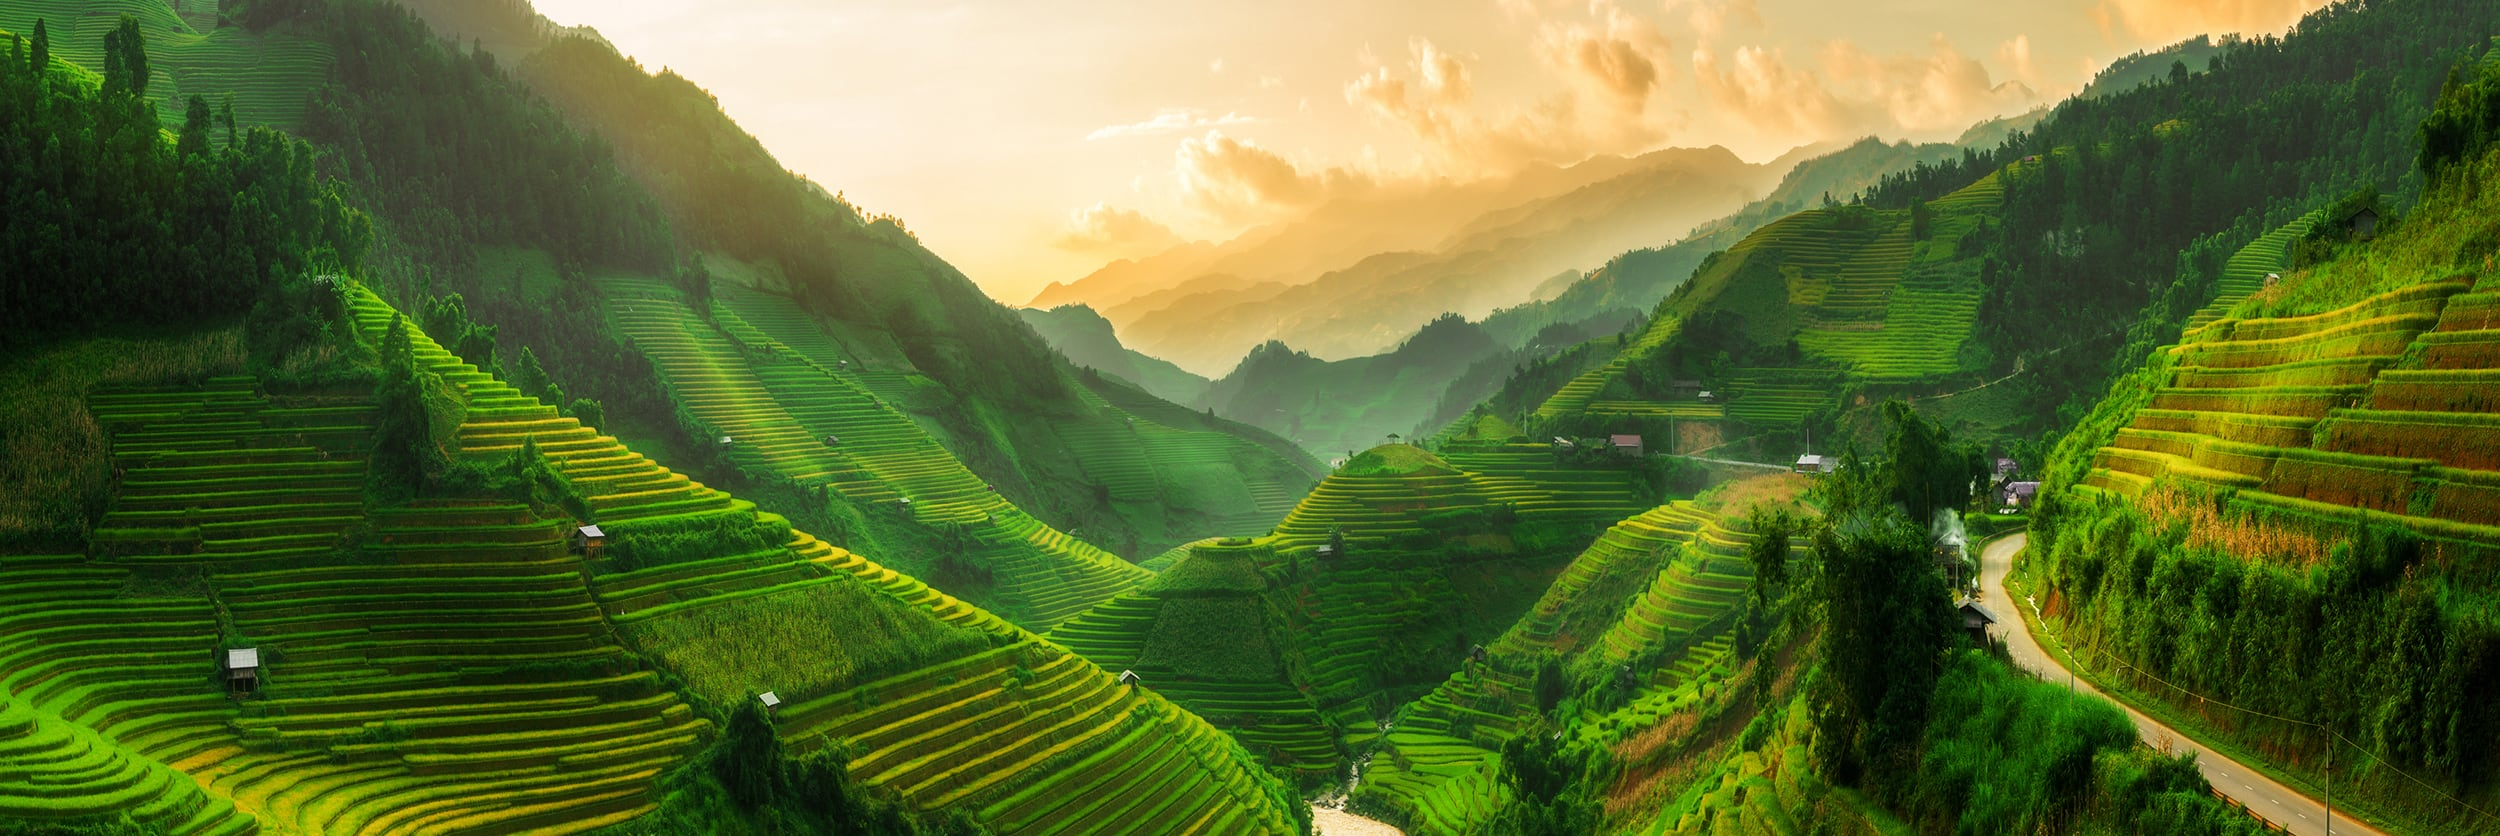
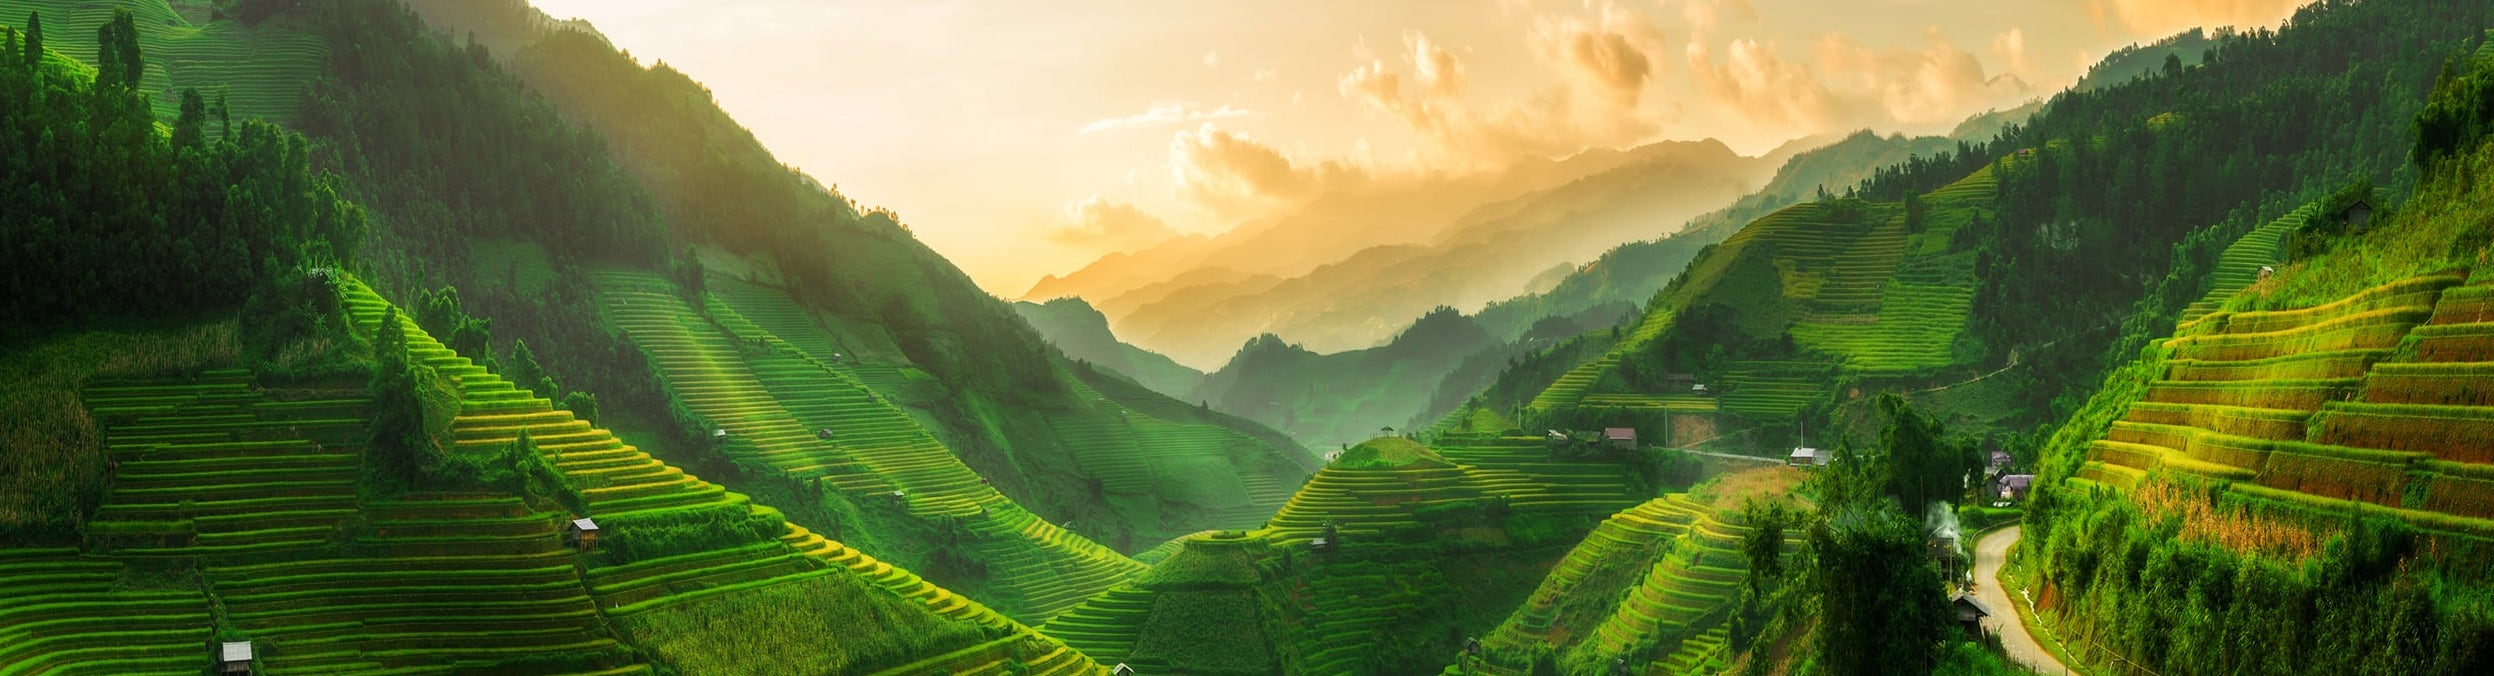
added hero image and flexbox to homepage

diff --git a/client/components/all-rice.js b/client/components/all-rice.js
@@ -11,24 +11,35 @@ class AllRice extends Component {
     render () {
         const { rice } = this.props
         return (
-            <div id='allrice'>
+            <div>
                 <main>
-                <h1>All Rice</h1>
-                    {rice.map(singleRice=> (
-                        <div className='campus' key={singleRice.id}>
-                            <Link to={`/allproducts/${singleRice.id}`}>
-                            <h2>{singleRice.name}</h2>
-                            <img className='riceIMG' src={singleRice.img} />
-                            </Link>
-                                <div>
-                                    <h3>Price: {singleRice.price}</h3>
-                                    <h3>Type: {singleRice.type}</h3>
-                                    <h4>Description: {singleRice.description}</h4>
-                                </div>
-                        </div>
-                    ))}
+                    <section id='about'>
                     <div>
+                        <div id='homepage-text'>
+                            <h1>Welcome to ShopRice</h1>
+                            <p>
+                            Providing the highest quality of rice since 1902
+                            </p>
+                        </div>
+                        <div id='aboutbackground'>
+                            <img className='homepage' src='/pictures/hero.jpg' alt='Homepage background' />
+                        </div>
                     </div>
+                    </section>
+
+                    <section id='product'>
+                    <h1>All Rice Products</h1>
+                        <div className='allProducts'>
+                            {rice.map(singleRice=> (
+                                <div className='singleProduct' key={singleRice.id}>
+                                    <Link to={`/allproducts/${singleRice.id}`}>
+                                    <h2>{singleRice.name}</h2>
+                                    <img className='riceIMG' src={singleRice.img} />
+                                    </Link>
+                                </div>
+                            ))}
+                        </div>
+                    </section>
                 </main>
             </div>
         )

diff --git a/client/components/single-rice.js b/client/components/single-rice.js
@@ -20,15 +20,19 @@ class SingleRice extends Component {
 	render() {
 		const { singleRice } = this.props;
 		return (
-			<div className="campus" key={singleRice.id}>
-				<h2>{singleRice.name}</h2>
-				<img className="riceIMG" src={singleRice.img} />
-				<div>
-					<h3>Price: {singleRice.price}</h3>
-					<h3>Type: {singleRice.type}</h3>
-					<h4>Description: {singleRice.description}</h4>
-        </div>
-        <button type="submit" onClick={() => this.handleClick()} id="addCart">ADD TO CART</button>
+			<div className="singleProduct-page" key={singleRice.id}>
+				<div className="product">
+					<img className="riceIMG" src={singleRice.img} />
+				</div>
+				<div className="content">
+					<div>
+						<h2>{singleRice.name}</h2>
+						<h3>Type: {singleRice.type}</h3>
+						<h4>Description: {singleRice.description}</h4>
+						<h3>Price: ${singleRice.price}</h3>
+					</div>
+					<button type="submit" onClick={() => this.handleClick()} id="addCart">ADD TO CART</button>
+				</div>
 			</div>
 		);
 	}

diff --git a/public/style.css b/public/style.css
@@ -28,11 +28,53 @@ form div {
   display: flex
 }
 
+#about div {
+  display: flex;
+  justify-content: center;
+}
+
+#homepage-text {
+  text-align: center;
+  flex-direction: column;
+  position: absolute;
+  left: 50%;
+  top: 50%;
+  transform: translate(-50%, -50%);
+}
+
+
+.homepage {
+  max-height: 600px;
+  max-width: 100%;
+}
+
 .riceIMG {
   height: 350px;
   width: 400px;
 }
 
+.allProducts {
+  display: flex;
+  justify-content: space-around;
+  flex-direction: row;
+  flex-wrap: wrap;
+  flex-flow: row wrap;
+  padding: 10px;
+}
+
 .cart-item {
   margin: 0 0 10px;
+}
+
+.singleProduct-page {
+  display: flex;
+  justify-content: space-around;
+  flex-direction: row;
+  width: 1500px;
+}
+
+.content {
+  flex: 1;
+  padding: 20px;
+  text-align: center;
 }
